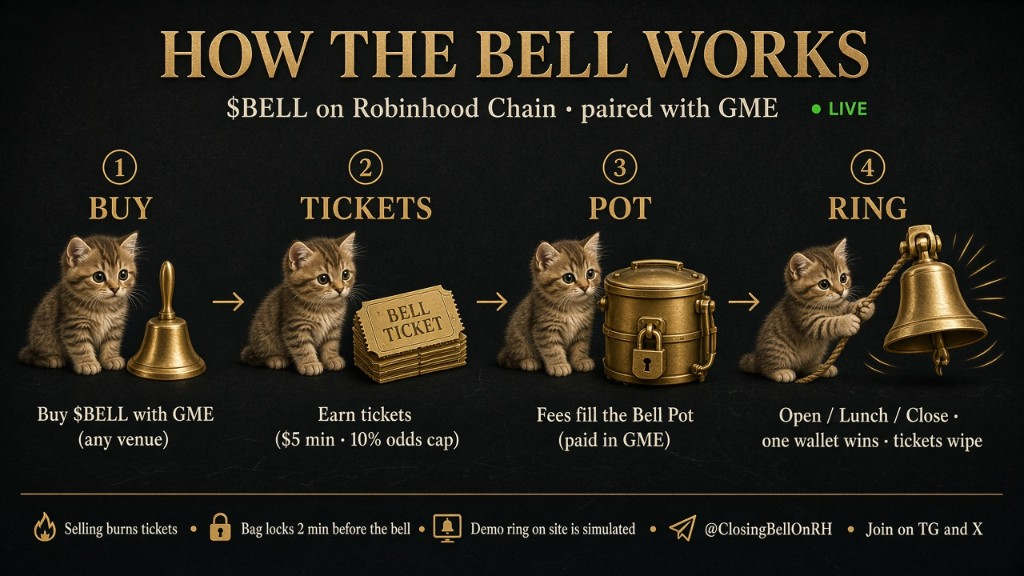
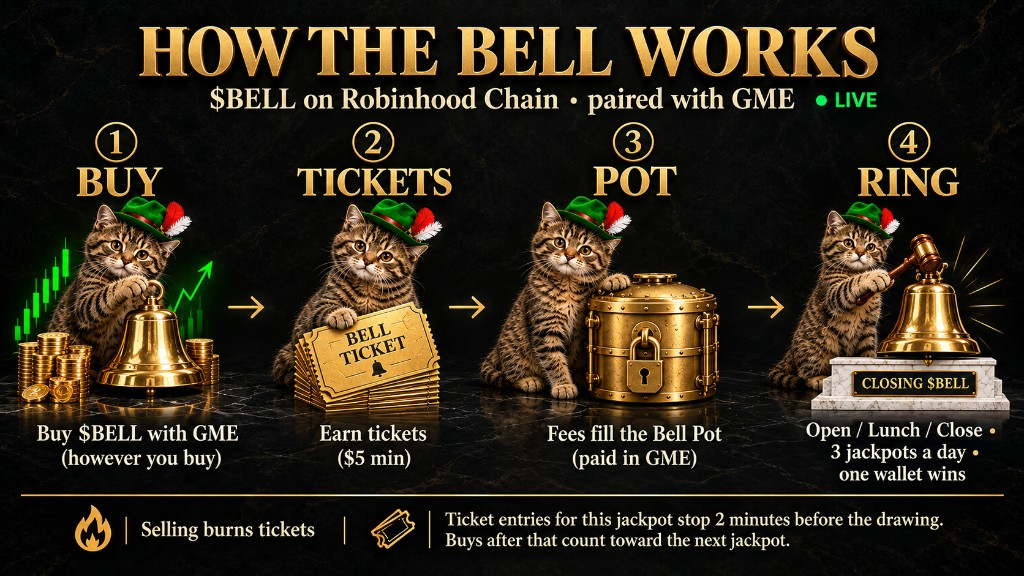
Replace How the Bell Works infographic and drop strip socials.
Use the new brand art at the same public path, update alt text, and leave Telegram/X to header and footer only.

diff --git a/components/sections/HowTheBellWorksStrip.tsx b/components/sections/HowTheBellWorksStrip.tsx
@@ -4,7 +4,6 @@ import Image from "next/image";
 import { motion, useReducedMotion } from "framer-motion";
 
 import { Reveal } from "@/components/ui/Reveal";
-import { COMMUNITY } from "@/lib/community";
 import { EASE_BELL } from "@/lib/motion";
 
 const STEPS = ["Buy", "Tickets", "Pot", "Ring"] as const;
@@ -36,7 +35,7 @@ function BrassArrow({ pulse }: { pulse: boolean }) {
 
 /**
  * Infographic strip between Hero and Bell Pot.
- * Lore kicker + diagram + live TG/X links. Light scroll motion only.
+ * Lore kicker + diagram. Community links live in header/footer only.
  */
 export function HowTheBellWorksStrip() {
   const reduceMotion = useReducedMotion();
@@ -89,7 +88,7 @@ export function HowTheBellWorksStrip() {
             >
               <Image
                 src="/brand/how-the-bell-works.jpg"
-                alt="How the bell works: buy $BELL with GME wherever you trade, earn tickets with a 10% odds cap, fees fill the Bell Pot in GME, then Open Lunch or Close rings and one wallet wins while tickets wipe."
+                alt="How Closing Bell works: buy BELL with GME, earn tickets, fees fill the pot, three jackpot rings a day"
                 width={1024}
                 height={576}
                 sizes="(max-width: 1100px) 100vw, 1100px"
@@ -97,42 +96,6 @@ export function HowTheBellWorksStrip() {
                 priority={false}
               />
             </motion.div>
-          </div>
-        </Reveal>
-
-        <Reveal delay={0.2} className="mt-4">
-          <div className="flex flex-col items-center gap-2.5 sm:flex-row sm:flex-wrap sm:justify-center sm:gap-x-6 sm:gap-y-2">
-            <a
-              href={COMMUNITY.telegram.href}
-              target="_blank"
-              rel="noreferrer noopener"
-              className="rounded-xs font-mono text-[0.78rem] font-semibold tracking-[0.04em] text-brass-200 transition-colors hover:text-tape focus-visible:text-tape"
-            >
-              @ClosingBellOnRH
-            </a>
-            <span className="hidden text-ink-3 sm:inline" aria-hidden="true">
-              ·
-            </span>
-            <p className="flex flex-wrap items-center justify-center gap-x-3 gap-y-1 font-mono text-[0.68rem] uppercase tracking-[0.16em] text-ink-3">
-              <span>Join on</span>
-              <a
-                href={COMMUNITY.telegram.href}
-                target="_blank"
-                rel="noreferrer noopener"
-                className="text-brass-300 transition-colors hover:text-tape focus-visible:text-tape"
-              >
-                Telegram
-              </a>
-              <span aria-hidden="true">&amp;</span>
-              <a
-                href={COMMUNITY.x.href}
-                target="_blank"
-                rel="noreferrer noopener"
-                className="text-brass-300 transition-colors hover:text-tape focus-visible:text-tape"
-              >
-                X
-              </a>
-            </p>
           </div>
         </Reveal>
       </div>

diff --git a/DESIGN.md b/DESIGN.md
@@ -172,7 +172,7 @@ Simulated language is kept tight. The Ring control is the only place that says "
 
 Closing Bell borrows the thing everyone already knows from traditional markets: one ring that ended the day. On Robinhood Chain the market never sleeps, so the ritual can hit Open / Lunch / Close. Hero copy stays feeling + origin; mechanics live in How it works. No Robinhood feather, logo, or corporate biography, and no claim of official affiliation.
 
-**How the Bell Works strip** sits tight between Hero and Bell Pot: lore kicker (“Wall Street had one closing bell…”), Buy → Tickets → Pot → Ring with light scroll stagger and brass arrow pulse, `public/brand/how-the-bell-works.jpg`, plus live Telegram/X links for `@ClosingBellOnRH` (not PNG-only).
+**How the Bell Works strip** sits tight between Hero and Bell Pot: lore kicker (“Wall Street had one closing bell…”), Buy → Tickets → Pot → Ring with light scroll stagger and brass arrow pulse, and `public/brand/how-the-bell-works.jpg`. Telegram/X live in header/footer only (the infographic has no socials).
 
 **The address lookup** returns mocked data derived deterministically from the address bytes so hydration stays stable. Connect is a demo fill only.
 
